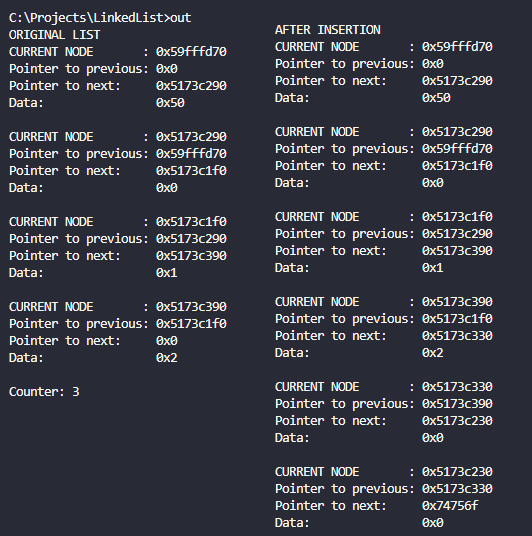
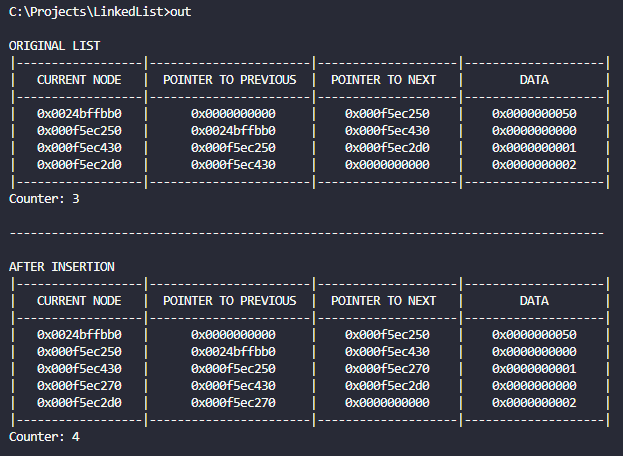
Added console print table like

diff --git a/src/main.c b/src/main.c
@@ -10,7 +10,7 @@ typedef struct NODE
     uint32_t data;
 } NODE;
 
-void print_one_node(NODE *someNode)
+void print_one_node_old(NODE *someNode)
 {
     if (someNode != NULL)
     {
@@ -23,6 +23,36 @@ void print_one_node(NODE *someNode)
     {
         printf("----> Print one node: NULL pointer <----\n");
     }
+}
+
+void print_one_node_table(NODE *someNode)
+{
+    if (someNode != NULL)
+    {
+        printf("|   0x%.10x   |      0x%.10x     |    0x%.10x    |    0x%.10x    |\n", someNode, someNode->previous, someNode->next, someNode->data);
+    }
+    else
+    {
+        printf("----> Print one node: NULL pointer <----\n");
+    }
+}
+
+void print_all_nodes(NODE *someNode)
+{
+    uint32_t counter = 0;
+    NODE *node = someNode;
+    printf("|------------------|-----------------------|--------------------|--------------------|\n");
+    printf("|   CURRENT NODE   |  POINTER TO PREVIOUS  |  POINTER TO NEXT   |        DATA        |\n");
+    printf("|------------------|-----------------------|--------------------|--------------------|\n");
+    do
+    {
+        print_one_node_table(node);
+        node = node->next;
+        counter++;
+    } while (node->next != NULL);
+    print_one_node_table(node);
+    printf("|------------------|-----------------------|--------------------|--------------------|\n");
+    printf("Counter: %d \n", counter);
 }
 
 NODE *find_last_node(NODE *head)
@@ -59,21 +89,6 @@ NODE *find_first_node(NODE *head)
 
     // printf("First node iterations: %d \n", counter);
     return current;
-}
-
-void print_all_nodes(NODE *someNode)
-{
-    uint32_t counter = 0;
-    NODE *node = someNode;
-
-    do
-    {
-        print_one_node(node);
-        node = node->next;
-        counter++;
-    } while (node->next != NULL);
-    print_one_node(node);
-    printf("Counter: %d \n", counter);
 }
 
 void append_node(NODE *someNode)
@@ -211,13 +226,14 @@ void TEST_insert_node_process()
         append_node(&fistNode);
     }
 
-    printf("ORIGINAL LIST\n");
+    printf("\nORIGINAL LIST\n");
     print_all_nodes(&fistNode);
-    printf("\n\n-----------\n\n");
+    printf("\n-------------------------------------------------------------------------------------\n\n");
 
-    insert_new_node_after(insert_new_node_after(get_nth_node_of_list(&fistNode, 3)));
+    insert_new_node_after(get_nth_node_of_list(&fistNode, 2));
     printf("AFTER INSERTION\n");
     print_all_nodes(&fistNode);
+    printf("\n\n");
 }
 
 void TEST_find_first_or_last_node_process()
@@ -229,9 +245,9 @@ void TEST_find_first_or_last_node_process()
     {
         append_node(&fistNode);
     }
-    // print_one_node((get_nth_node_of_list(&fistNode, 3)));
-    print_one_node(find_first_node(get_nth_node_of_list(&fistNode, 3)));
-    print_one_node(find_last_node(get_nth_node_of_list(&fistNode, 3)));
+    // print_one_node_old((get_nth_node_of_list(&fistNode, 3)));
+    print_one_node_old(find_first_node(get_nth_node_of_list(&fistNode, 3)));
+    print_one_node_old(find_last_node(get_nth_node_of_list(&fistNode, 3)));
     printf("\n\n-----------\n\n");
     print_all_nodes(&fistNode);
 }
@@ -250,11 +266,11 @@ void TEST_get_nth_node_process()
     printf("\n\n-----------\n\n");
 
     printf("-------------------- 5th node: --------------------\n");
-    print_one_node(get_nth_node_of_list(&fistNode, 5));
+    print_one_node_old(get_nth_node_of_list(&fistNode, 5));
     printf("-------------------- 7th node: --------------------\n");
-    print_one_node(get_nth_node_from_current(get_nth_node_of_list(&fistNode, 5), 2));
+    print_one_node_old(get_nth_node_from_current(get_nth_node_of_list(&fistNode, 5), 2));
     printf("-------------------- 3rd node: --------------------\n");
-    print_one_node(get_nth_node_from_current(get_nth_node_of_list(&fistNode, 5), -2));
+    print_one_node_old(get_nth_node_from_current(get_nth_node_of_list(&fistNode, 5), -2));
 }
 
 void TEST_exclude_node_process()

diff --git a/README.md b/README.md
@@ -36,7 +36,7 @@ For (almost) each feature, there is a "TEST_" funcion that tests it in someway o
 
 # To do
  
- - Develop a new way to print all nodes: Maybe a table written on console or a .CSV file;
+ - Develop a new way to print all nodes: Maybe a table written on console (DONE ✔) or a .CSV file;
  - Sort list by data;
  - Insert node in its place (maintaining order);
  - Function to return the size of space used by linked list;
